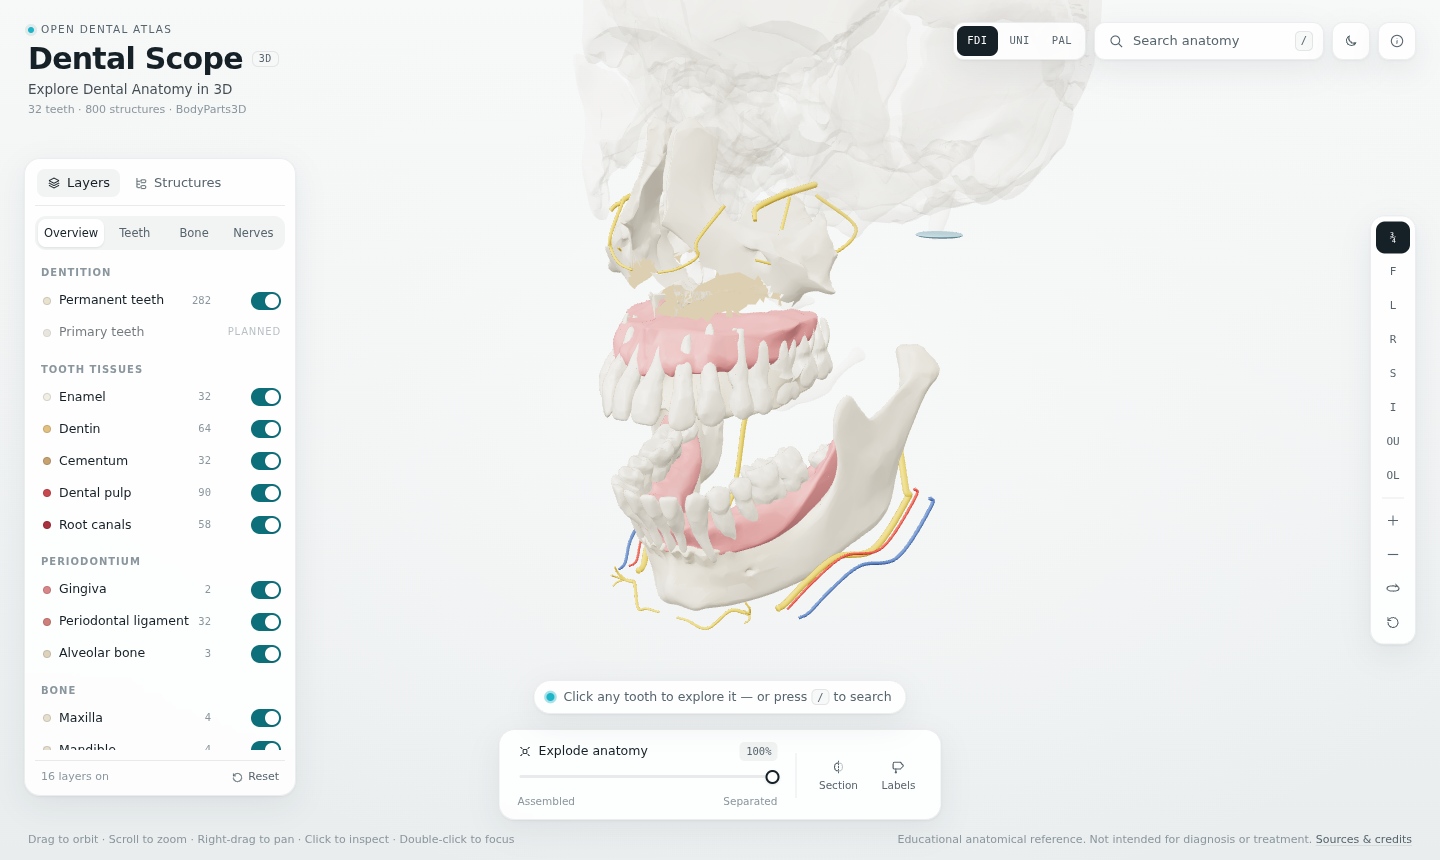
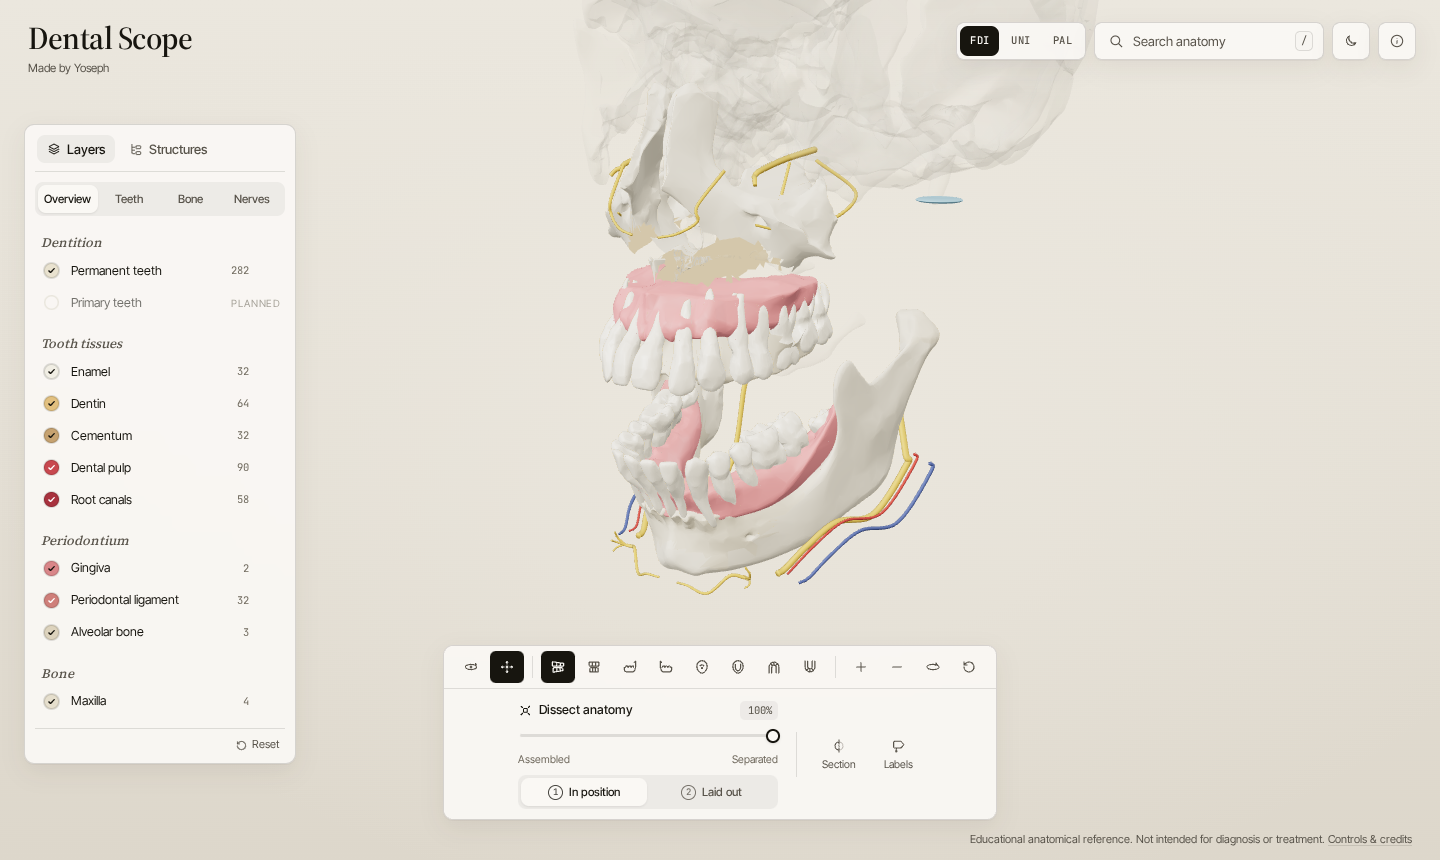
chore(ui): visual QA pass for the new identity
- faint text darkened to reach 4.5:1 on panels in both themes; footer uses muted ink
- layer groups are proper lists (axe: no list/listitem violations left)
- View picker keeps keyboard focus on its button after a view is picked
- architecture and sources docs updated for the toolbar and CameraControls
- README screenshots refreshed (desktop light/dark, section, dissection, mobile)

Closes #21

Claude-Session: https://claude.ai/code/session_01RM79gvKksTfsZrwJozMEF9

diff --git a/src/ui/LayersPanel.tsx b/src/ui/LayersPanel.tsx
@@ -47,9 +47,9 @@ function Categories() {
           </button>
         ))}
       </div>
-      <div className="ds-layer-list" role="list">
+      <div className="ds-layer-list">
         {groups.map(([group, list]) => (
-          <div key={group} className="ds-layer-group" role="group" aria-label={group}>
+          <div key={group} className="ds-layer-group" role="list" aria-label={group}>
             <div className="ds-layer-group-title">{group}</div>
             {list.map((c) => (
               <CategoryRow key={c.id} id={c.id} label={c.label} color={c.color} planned={!!c.planned} count={counts[c.id] ?? 0} state={cats[c.id]} />

diff --git a/src/styles/tokens.css b/src/styles/tokens.css
@@ -22,7 +22,7 @@
   /* ink */
   --ink: #17150f;
   --muted: #58534a;
-  --faint: #8a8477;
+  --faint: #6f695d;
   --line: rgba(28, 24, 18, 0.12);
   --hover: rgba(28, 24, 18, 0.05);
   --press: rgba(28, 24, 18, 0.1);
@@ -61,7 +61,7 @@
   --panel-shadow: 0 1px 0 rgba(0, 0, 0, 0.3), 0 10px 28px rgba(0, 0, 0, 0.4);
   --ink: #eeeae1;
   --muted: #aca597;
-  --faint: #7c766a;
+  --faint: #8f897c;
   --line: rgba(240, 234, 222, 0.12);
   --hover: rgba(240, 234, 222, 0.06);
   --press: rgba(240, 234, 222, 0.1);

diff --git a/src/ui/CameraControls.tsx b/src/ui/CameraControls.tsx
@@ -182,6 +182,8 @@ function ViewPicker() {
               onClick={() => {
                 engine.setView(v.id);
                 setOpen(false);
+                // the grid unmounts: keep keyboard focus on the View button
+                root.current?.querySelector<HTMLButtonElement>('.ds-view-picker-btn')?.focus();
               }}
             >
               {v.icon}

diff --git a/src/styles/app.css b/src/styles/app.css
@@ -1156,7 +1156,7 @@ button.ds-layer-name:hover {
   justify-content: flex-end;
   gap: 16px;
   font-size: 11px;
-  color: var(--faint);
+  color: var(--muted);
   pointer-events: none;
 }
 .ds-footer p {

diff --git a/docs/architecture.md b/docs/architecture.md
@@ -77,11 +77,12 @@ src/
     labels.ts           DOM label layer with decluttering
     assets.ts           Manifest fetch + GLB loader (meshopt)
     animator.ts         Tiny keyed tween driver
-  ui/                   React components: App, TopBar, LayersPanel, StructureTree, DetailPanel, Dock,
-                        ViewRail, SearchPanel, Overlays (About, footer, loading, start hint), icons,
+  ui/                   React components: App, TopBar, LayersPanel, StructureTree, DetailPanel, Dock
+                        (bottom toolbar), CameraControls (orbit, view pictograms / View picker, zoom),
+                        SearchPanel, Overlays (About, footer, loading, start hint), icons,
                         useKeyboard, context (ServicesContext)
   modes/modes.ts        🧩 Mode interface, lesson format, quiz picker (not wired to the UI)
-  styles/               tokens.css (design tokens, light/dark), app.css
+  styles/               tokens.css (design tokens: paper and ink, one ultramarine accent, light/dark), app.css
 public/
   models/               Production GLBs + manifest.json (CC BY-SA 2.1 JP, derived from BodyParts3D)
   favicon.svg, og-image.png
@@ -204,7 +205,8 @@ The pipeline (details in [assets.md](assets.md)): BodyParts3D STL → `tools/pip
 - **Accessibility.**
   - Every control is a labelled `<button>`/`<input>`.
   - The structure tree is a keyboard-navigable `role="tree"`, so the canvas isn't the only path to the content.
-  - The view-rail controls show their names on hover, focus and touch.
+  - The camera controls in the bottom toolbar show their names on hover, focus and touch; the View picker returns focus to its button and closes on Escape.
+  - Layer visibility toggles are the colour swatches: buttons with `aria-pressed`, a check mark when on, so state never relies on colour alone.
   - Keyboard shortcuts are handled in `useKeyboard.ts` and listed in the About dialog and the README.
   - `prefers-reduced-motion` (or `?motion=reduce`) makes camera and explode changes instant.
   - Text contrast is at least 4.5:1, with visible focus rings.

diff --git a/docs/sources.md b/docs/sources.md
@@ -41,4 +41,4 @@ Last checked: 2026-09-26.
 | D2 | *(Removed.)* The details panel no longer shows a provenance or review-status badge; the About dialog no longer claims it does. Provenance is still described in About (F1–F6) and recorded per mesh in `manifest.json`. | — |
 | D3 | Controls: drag to orbit, right-drag to pan, scroll to zoom, click to select, double-click to focus. On touch: one finger orbits, two fingers pan, pinch zooms. | `src/engine/camera.ts` creates three.js OrbitControls and keeps its default bindings: left-drag rotates, right-drag pans, the wheel zooms, one finger rotates, and two fingers zoom and pan. `src/engine/Engine.ts` selects on `pointerup` and focuses on `dblclick`. |
 | D4 | Keyboard shortcuts (`/`, `Esc`, `F`, `I`, `H`, `G`, `D`, `[` `]`, `E`, `C`, `L`, arrows, `+` `−`, `R`) | `src/ui/useKeyboard.ts` handles every listed key, and the action it runs matches the dialog. `E` separates the tooth layers when you are inside a tooth, and otherwise dissects the arch. |
-| D5 | Orbit mode. Fixed: always turn around the model centre. Free: pan and focus move the pivot. | `src/engine/camera.ts` (`CameraRig.setMode`, `tick`, `fixedFocusPose`) and `src/engine/Engine.ts` (`updatePivot`: the pivot is the dentition, or the tooth being dissected). The switch is in `src/ui/ViewRail.tsx`. |
+| D5 | Orbit mode. Fixed: always turn around the model centre. Free: pan and focus move the pivot. | `src/engine/camera.ts` (`CameraRig.setMode`, `tick`, `fixedFocusPose`) and `src/engine/Engine.ts` (`updatePivot`: the pivot is the dentition, or the tooth being dissected). The switch is in `src/ui/CameraControls.tsx`. |
